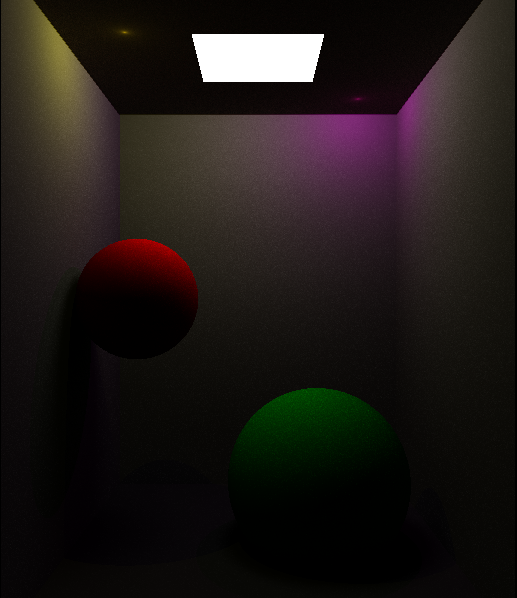
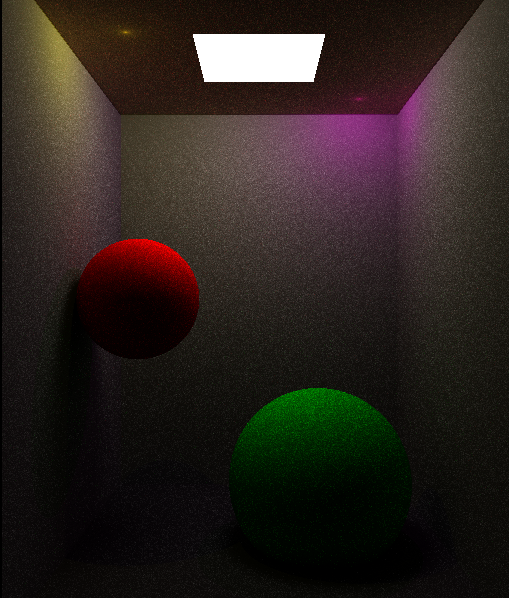
fix

diff --git a/src/integrator.cpp b/src/integrator.cpp
@@ -90,14 +90,17 @@ Vec3 Integrator::traceRay(const Ray& ray, const Scene& scene, Vec3 throughput, u
     outRay.d = normalize(sampWS);
 
     Vec3 brdf = rInter.mat->evalBrdf(outRay.d, ray.d, rInter.hitPoint);
-    throughput = throughput * brdf;
+
+    Vec3 temp = brdf * throughput * dot(rInter.normal, outRay.d) * samp.invPDF;
+    throughput = throughput * temp;
 
     float zeta = Sampler::the().sampleUniformUnitInterval();
+    float p = std::max(std::min(1.0f, length(throughput)), 0.1f);
 
-    if(zeta <= length(throughput))
+    if(zeta < p)
     {
         //bounce
-        return  Lo + brdf * traceRay(outRay, scene, throughput, depth + 1) * samp.invPDF * dot(rInter.normal, outRay.d);
+        Lo = Lo + (temp * traceRay(outRay, scene, throughput, depth + 1)) * (1.0f / p);
     }
 
     return Lo;

diff --git a/README.md b/README.md
@@ -2,4 +2,4 @@ A simple pathtracer.
 
 First render:
 
-<img src="migs/first.png" width="517">
+<img src="imgs/first.png" width="517">
